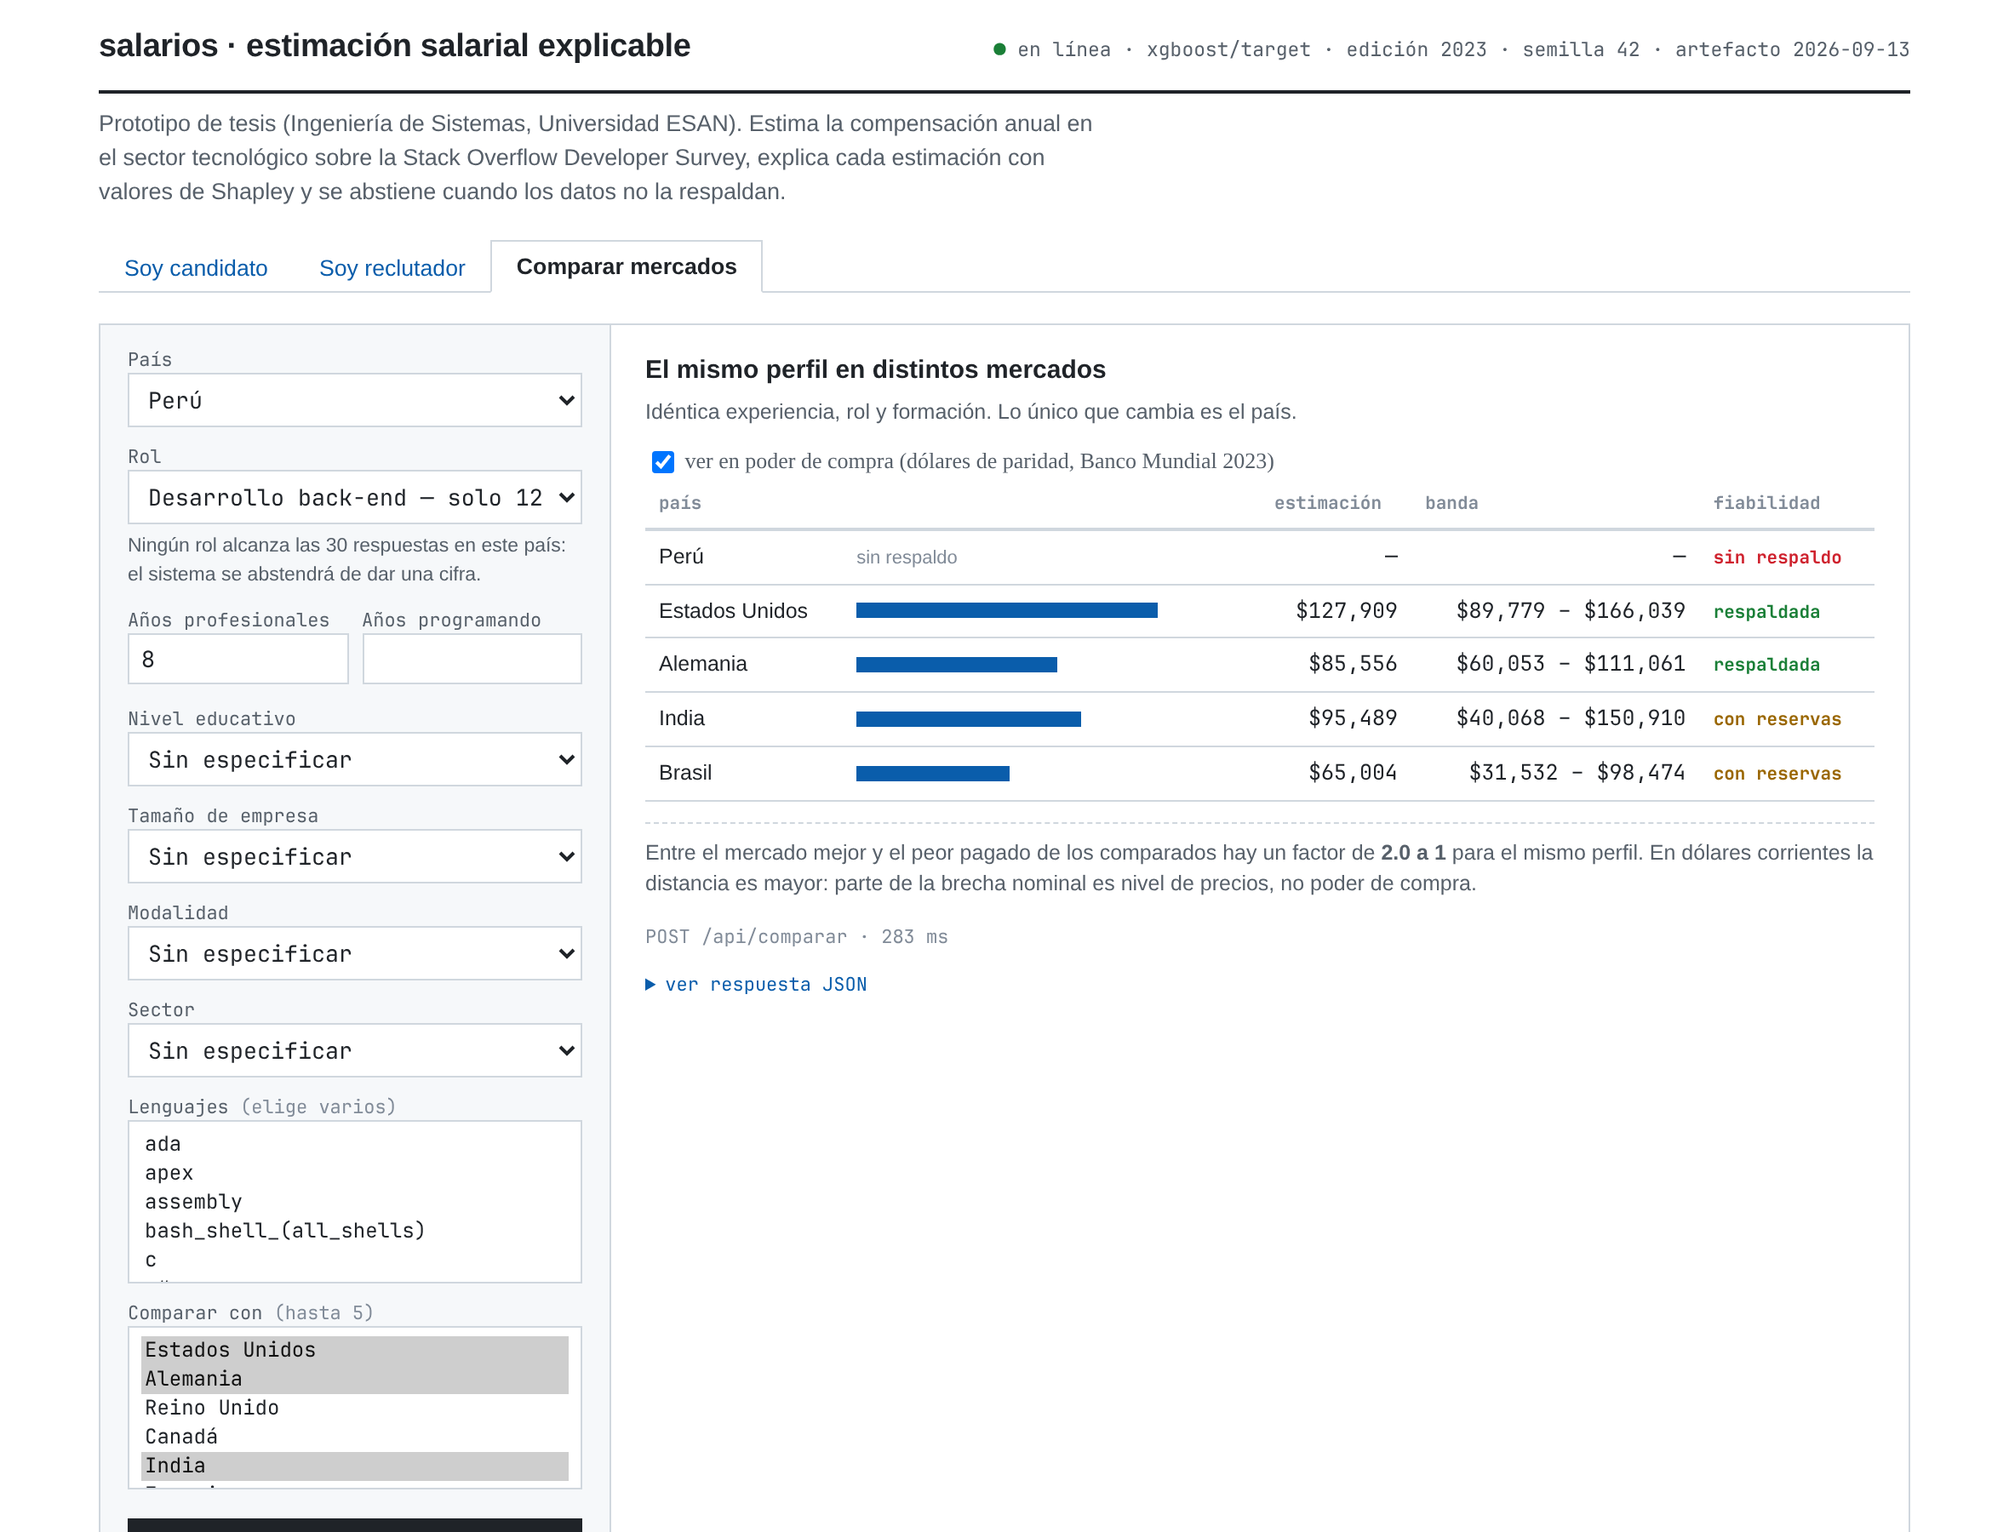
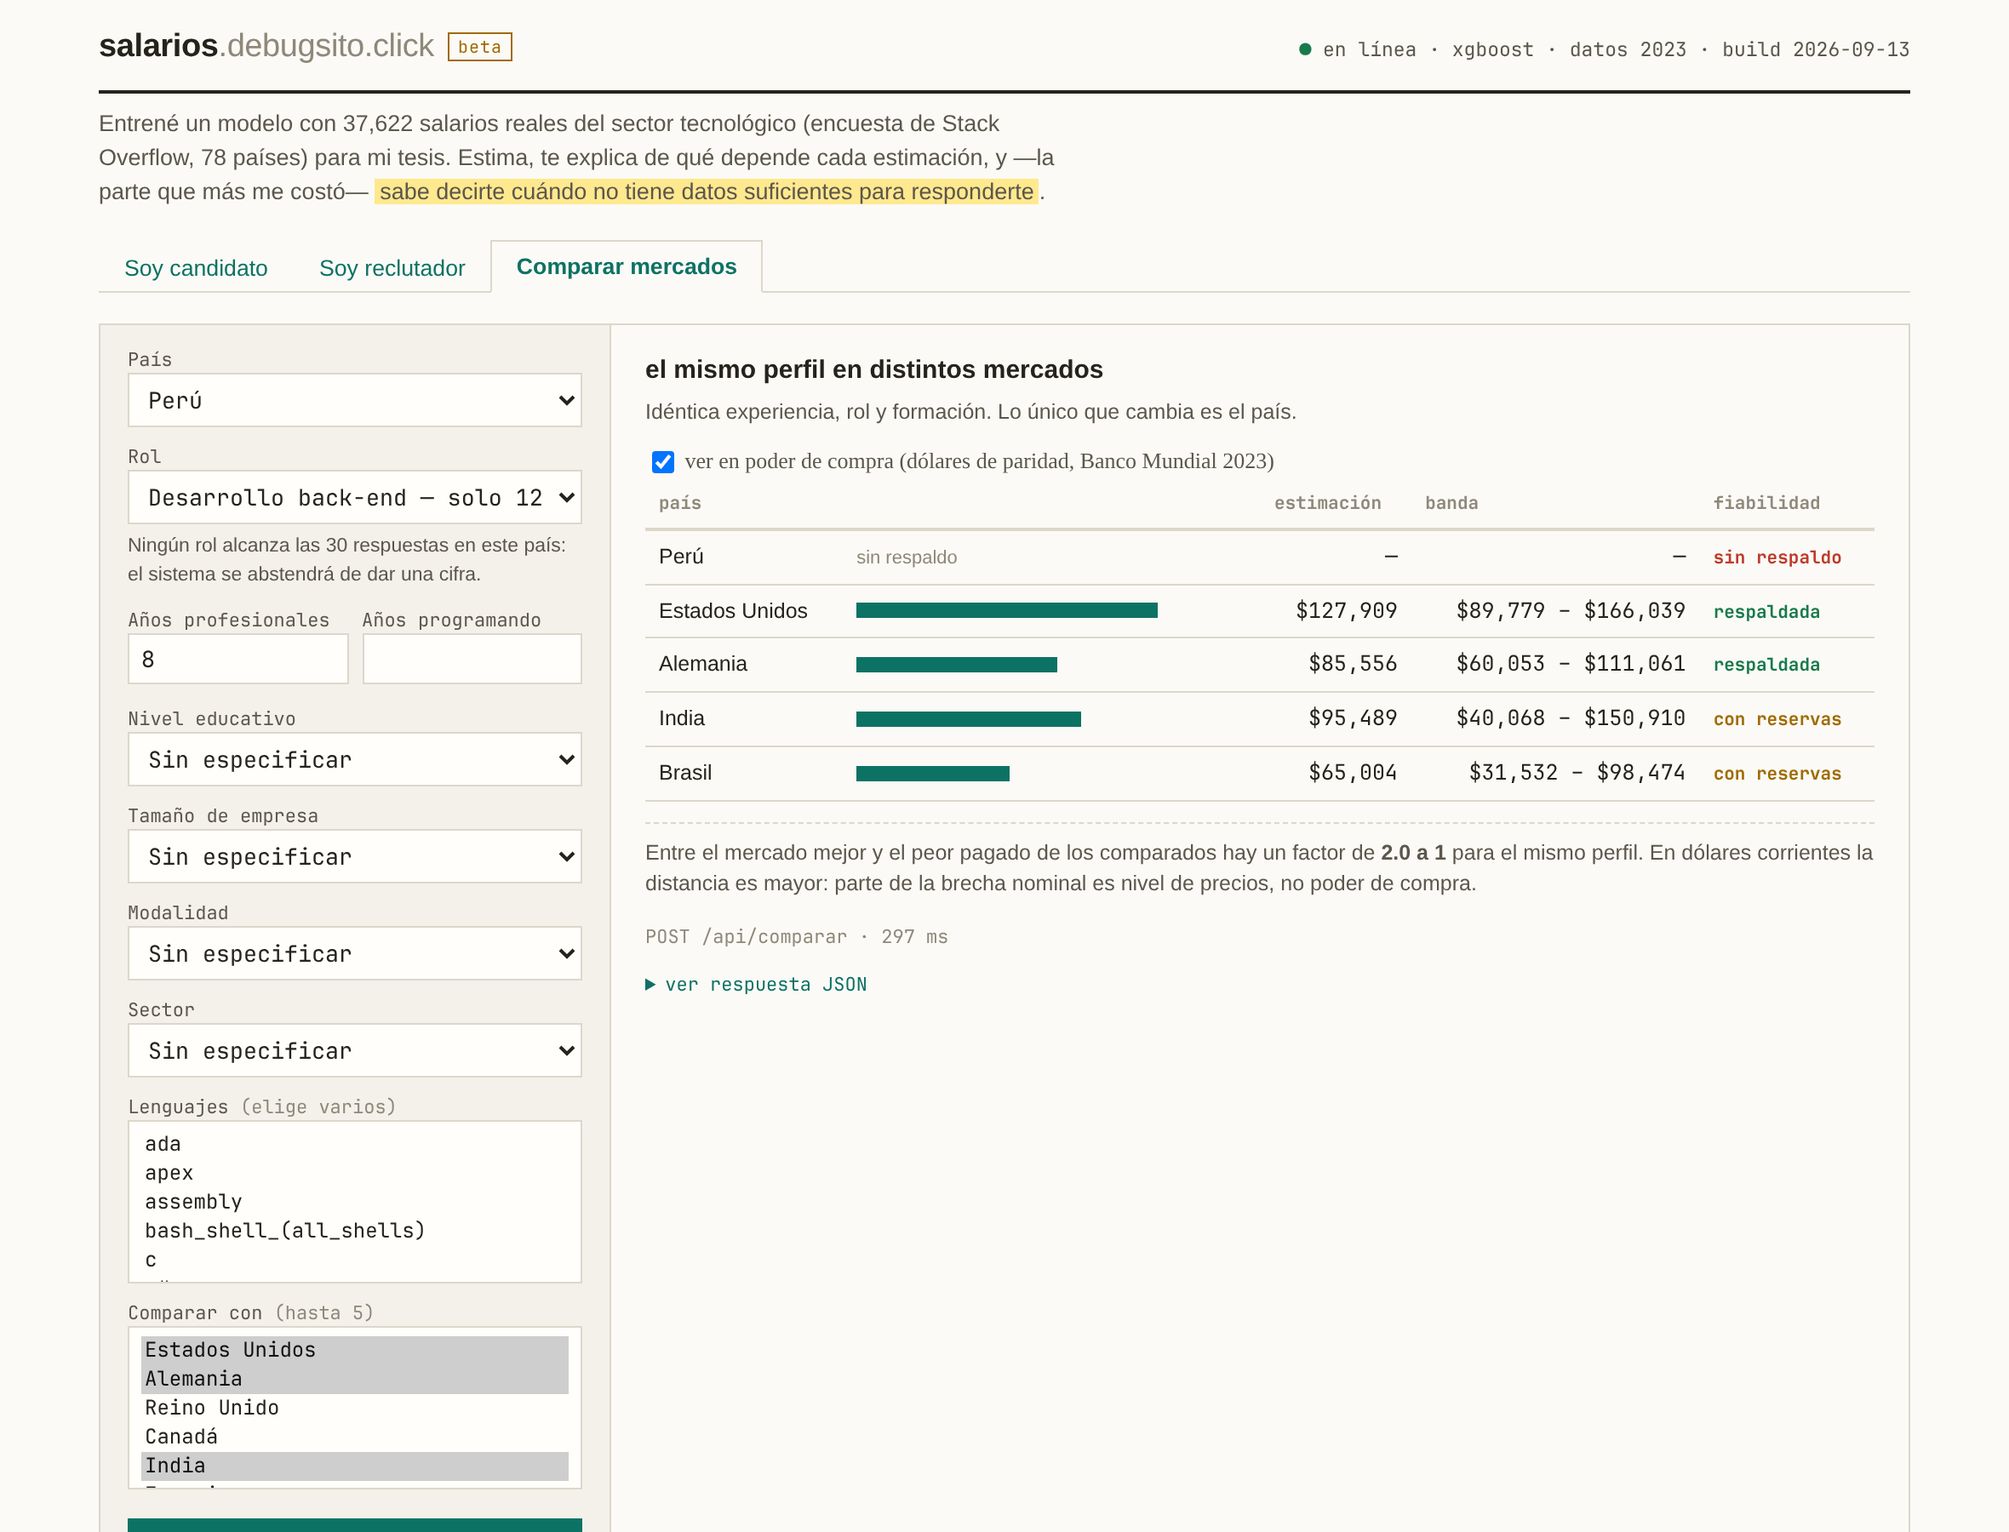
style: identidad propia y voz para el prototipo
Lo que delataba a la interfaz no era un estilo concreto sino la
uniformidad sin elecciones personales. Esta pasada le da las
elecciones: el dominio como nombre del proyecto con etiqueta beta,
introducción en primera persona con subrayado de resaltador sobre la
frase clave, un verde petróleo como único acento sobre fondo crema,
títulos de sección en minúscula, ejemplos con humor contenido y estados
vacíos con voz. Nada institucional en el tema: la universidad vive en
el pie y en el «acerca de».

La compuerta pasa a nombrar los países en español también en sus
motivos, y el guion de capturas del Anexo K queda versionado en
scripts/capturas_anexo_k.js en lugar de vivir en un directorio
temporal que ya lo borró dos veces.

24 pruebas, ejecutadas al construir la imagen.

diff --git a/servicio/static/index.html b/servicio/static/index.html
@@ -9,10 +9,15 @@
 /* Herramienta, no página de aterrizaje: densa, cuadrada, con monoespaciada
    para todo lo que sea dato. Un solo tema. */
 :root{
-  --tinta:#1f2328; --tinta2:#57606a; --tinta3:#818b98;
-  --borde:#d0d7de; --fondo:#ffffff; --gris:#f6f8fa;
-  --azul:#0a5dab; --verde:#1a7f37; --ambar:#9a6700; --rojo:#cf222e;
+  --tinta:#26221c; --tinta2:#5c564c; --tinta3:#8f887a;
+  --borde:#ddd7ca; --fondo:#fbfaf6; --gris:#f3f1ea;
+  --azul:#0c7264; --verde:#187a4b; --ambar:#a06b00; --rojo:#bf3a2b;
 }
+mark{background:#ffe98f;color:inherit;padding:0 3px}
+.beta{font:10px ui-monospace,Consolas,monospace;color:var(--ambar);
+  border:1px solid var(--ambar);padding:1px 5px;margin-left:8px;
+  vertical-align:middle;letter-spacing:.05em}
+h1 .dominio{color:var(--tinta3);font-weight:400}
 *{box-sizing:border-box}
 body{margin:0;background:var(--fondo);color:var(--tinta);
   font:14px/1.5 -apple-system,"Segoe UI",Roboto,"Helvetica Neue",Arial,sans-serif}
@@ -29,7 +34,7 @@ header p{margin:8px 0 0;color:var(--tinta2);font-size:13.5px;max-width:78ch}
 .pestanas button{background:none;border:1px solid transparent;border-bottom:0;
   color:var(--azul);cursor:pointer;font:13.5px inherit;font-family:inherit;
   padding:7px 14px;margin-bottom:-1px}
-.pestanas button[aria-selected=true]{color:var(--tinta);font-weight:600;
+.pestanas button[aria-selected=true]{color:var(--azul);font-weight:600;
   border-color:var(--borde);background:var(--fondo);
   border-radius:0;border-bottom:1px solid var(--fondo)}
 .rejilla{display:grid;grid-template-columns:300px 1fr;gap:0;align-items:start;
@@ -42,15 +47,15 @@ label{display:block;font:11px ui-monospace,Consolas,monospace;color:var(--tinta2
   margin:11px 0 3px}
 label:first-of-type{margin-top:0}
 select,input{width:100%;padding:5px 7px;border:1px solid var(--borde);border-radius:0;
-  background:#fff;color:var(--tinta);font:13px inherit;font-family:inherit}
+  background:#fffefb;color:var(--tinta);font:13px inherit;font-family:inherit}
 select[multiple]{height:96px;font-family:ui-monospace,Consolas,monospace;font-size:12px}
 select:focus,input:focus{outline:1px solid var(--azul);outline-offset:-1px}
 .dos{display:grid;grid-template-columns:1fr 1fr;gap:8px;align-items:end}
 .dos label{margin:11px 0 3px}
-button.principal{width:100%;margin-top:14px;padding:7px;background:var(--tinta);
-  color:#fff;border:1px solid var(--tinta);border-radius:0;font:13.5px inherit;
+button.principal{width:100%;margin-top:14px;padding:7px;background:var(--azul);
+  color:#fff;border:1px solid var(--azul);border-radius:0;font:13.5px inherit;
   font-family:inherit;font-weight:600;cursor:pointer}
-button.principal:hover{background:#000}
+button.principal:hover{background:#095e52}
 button.principal:disabled{opacity:.5;cursor:progress}
 .semaforo{border:1px solid var(--borde);border-left-width:4px;padding:9px 13px;
   margin-bottom:16px;background:var(--gris)}
@@ -110,12 +115,13 @@ dialog table{font-size:12.5px}
 
 <header>
   <div class="topbar">
-    <h1>salarios · estimación salarial explicable</h1>
+    <h1>salarios<span class="dominio">.debugsito.click</span><sup class="beta">beta</sup></h1>
     <span class="meta" id="estado-modelo"><span class="punto">●</span> cargando…</span>
   </div>
-  <p>Prototipo de tesis (Ingeniería de Sistemas, Universidad ESAN). Estima la compensación
-     anual en el sector tecnológico sobre la Stack Overflow Developer Survey, explica cada
-     estimación con valores de Shapley y se abstiene cuando los datos no la respaldan.</p>
+  <p>Entrené un modelo con 37,622 salarios reales del sector tecnológico (encuesta de
+     Stack Overflow, 78 países) para mi tesis. Estima, te explica de qué depende cada
+     estimación, y —la parte que más me costó— <mark>sabe decirte cuándo no tiene datos
+     suficientes para responderte</mark>.</p>
 </header>
 
 <div class="pestanas" role="tablist">
@@ -142,24 +148,29 @@ dialog table{font-size:12.5px}
     <label id="fila-comparar" hidden>Comparar con <span class="pildora">(hasta 5)</span>
       <select id="comparar_paises" multiple></select></label>
     <button class="principal" type="submit" id="enviar">Estimar</button>
-    <p class="ejemplos">Ejemplos:
-      <button type="button" data-ej="verde">con respaldo</button> ·
-      <button type="button" data-ej="ambar">con reservas</button> ·
-      <button type="button" data-ej="rojo">sin respaldo</button></p>
+    <p class="ejemplos">prueba rápida:
+      <button type="button" data-ej="verde">un caso con datos de sobra</button> ·
+      <button type="button" data-ej="ambar">uno justito</button> ·
+      <button type="button" data-ej="rojo">Perú</button>
+      <span class="pildora">(spoiler: con Perú se niega, y esa es la gracia)</span></p>
   </form>
 
   <main class="panel" id="resultado">
-    <div class="vacio">Completa el formulario y pulsa «Estimar».</div>
+    <div class="vacio">Elige país y rol (o prueba un ejemplo, abajo a la izquierda) y dale a Estimar.</div>
   </main>
 </div>
 
 <footer id="pie"></footer>
 
 <dialog id="acerca">
-  <h2 style="margin-top:0">Acerca de este sistema</h2>
-  <p class="sub" style="font-size:13px">Prototipo de la tesis <em>Estimación de compensaciones
-  en el sector tecnológico mediante aprendizaje automático explicable</em>, Universidad ESAN,
-  Facultad de Ingeniería, Carrera de Ingeniería de Sistemas.</p>
+  <h2 style="margin-top:0">acerca de</h2>
+  <p class="sub" style="font-size:13px">Las calculadoras de salario que existen te dan un número
+  y jamás te dicen qué tan confiable es. En la tesis medimos el error del modelo grupo por
+  grupo, y este prototipo hace lo que ninguna: usa esa medición para decidir si te responde.
+  Cuando se niega, no está fallando — está funcionando.</p>
+  <p class="sub" style="font-size:13px">Es el prototipo de la tesis <em>Estimación de compensaciones
+  en el sector tecnológico mediante aprendizaje automático explicable</em> (Universidad ESAN,
+  Ingeniería de Sistemas).</p>
   <p class="sub" style="font-size:13px"><strong>Autores:</strong> Carlos Sebastian Ramos Flores
   y Arian Antonio Garay Concha. <strong>Asesor:</strong> Wilfredo Mamani Ticona.</p>
   <div id="ficha-modelo" style="font-size:13px"></div>
@@ -200,8 +211,8 @@ async function arrancar() {
   opciones("#comparar_paises", c.Country);
   const m = CTX.modelo;
   $("#estado-modelo").innerHTML =
-    `<span class="punto">●</span> en línea · ${m.algoritmo.toLowerCase()}/target · `
-    + `edición ${m.edicion} · semilla ${m.semilla} · artefacto ${m.generado}`;
+    `<span class="punto">●</span> en línea · ${m.algoritmo.toLowerCase()} · `
+    + `datos ${m.edicion} · build ${m.generado}`;
   $("#pie").innerHTML =
     `C. Ramos Flores · A. Garay Concha — Universidad ESAN, 2026. `
     + `n=${m.n_muestra.toLocaleString("en-US")} (${m.n_paises} países) · `
@@ -278,7 +289,7 @@ function factores(lista) {
       <td style="width:46%"><span class="barra ${f.efecto < 0 ? "baja" : ""}"
           style="width:${Math.max(2, Math.abs(f.efecto) / max * 100)}%"></span></td>
       <td class="num">${f.efecto > 0 ? "+" : ""}${f.efecto.toFixed(3)}</td></tr>`).join("");
-  return `<h2>De qué depende esta estimación</h2>
+  return `<h2>de qué depende esta estimación</h2>
     <p class="sub">Cuánto separa cada bloque esta estimación de la media de la muestra.
        En positivo la empuja hacia arriba; en negativo, hacia abajo.
        <strong>Un valor cercano a cero no significa que el factor no importe</strong>,
@@ -293,7 +304,7 @@ function vistaCandidato(r) {
   if (!r.banda) return semaforo(r.fiabilidad) + sinCifra(r);
   const b = r.banda;
   return semaforo(r.fiabilidad) + `
-    <h2>Tu estimación</h2>
+    <h2>tu estimación</h2>
     <div class="cifra">${dinero(b.centro)}</div>
     <div class="rango">Entre ${dinero(b.inferior)} y ${dinero(b.superior)} al año,
       antes de impuestos.</div>
@@ -307,7 +318,7 @@ function vistaReclutador(r) {
   if (!r.banda) return semaforo(r.fiabilidad) + sinCifra(r);
   const b = r.banda;
   return semaforo(r.fiabilidad) + `
-    <h2>Banda sugerida para la oferta</h2>
+    <h2>banda sugerida para la oferta</h2>
     <div class="cifra">${dinero(b.inferior)} – ${dinero(b.superior)}</div>
     <div class="rango">Punto medio ${dinero(b.centro)}. Mediana del mercado local
       ${dinero(r.mediana_pais)}.</div>
@@ -318,7 +329,7 @@ function vistaReclutador(r) {
 }
 
 function sinCifra(r) {
-  return `<h2>No se entrega una cifra</h2>
+  return `<h2>no se entrega una cifra</h2>
     <p class="sub">Devolver un número aquí daría una apariencia de precisión que los
       datos no sostienen. La mediana declarada en el país, que sí procede de
       observaciones directas, es ${dinero(r.mediana_pais)}.</p>
@@ -365,7 +376,7 @@ function vistaComparar(datos) {
       <input type="checkbox" id="escala-ppa" ${ESCALA_PPA ? "checked" : ""}
              style="width:auto;vertical-align:middle"> ver en poder de compra
       (dólares de paridad, Banco Mundial 2023)</label></p>`;
-  return `<h2>El mismo perfil en distintos mercados</h2>
+  return `<h2>el mismo perfil en distintos mercados</h2>
     <p class="sub">Idéntica experiencia, rol y formación. Lo único que cambia es el país.</p>
     ${conmutador}
     <table><thead><tr><th>País</th><th></th><th class="num">Estimación</th>
@@ -392,8 +403,9 @@ $(".pestanas").addEventListener("click", e => {
   $("#fila-comparar").hidden = VISTA !== "comparar";
   $("#fila-lenguajes").hidden = VISTA === "comparar";
   $("#enviar").textContent = VISTA === "comparar" ? "Comparar" : "Estimar";
-  $("#resultado").innerHTML = `<div class="vacio">Completa el formulario y pulsa
-    «${VISTA === "comparar" ? "Comparar" : "Estimar"}».</div>`;
+  $("#resultado").innerHTML = `<div class="vacio">${VISTA === "comparar"
+    ? "Elige con qué países comparar y dale a Comparar."
+    : "Elige país y rol y dale a Estimar."}</div>`;
 });
 
 const EJEMPLOS = {

diff --git a/scripts/capturas_anexo_k.js b/scripts/capturas_anexo_k.js
@@ -1,0 +1,50 @@
+// Capturas del prototipo para el Anexo K del documento.
+//
+// Uso:  npm install puppeteer-core   (donde sea; pasar NODE_PATH)
+//       node scripts/capturas_anexo_k.js
+// Requiere Chromium en /usr/bin/chromium y el servicio desplegado.
+const puppeteer = require('puppeteer-core');
+const URL = 'https://salarios.debugsito.click';
+const SALIDA = __dirname + '/../figures/servicio';
+
+(async () => {
+  const b = await puppeteer.launch({executablePath: '/usr/bin/chromium',
+    args: ['--no-sandbox', '--disable-dev-shm-usage'],
+    defaultViewport: {width: 1180, height: 900, deviceScaleFactor: 2}});
+  const p = await b.newPage();
+  const casos = [
+    ['candidato', 'candidato', 'Germany', 'Developer, back-end', 8, [], false],
+    ['reclutador', 'reclutador', 'Brazil', 'Developer, full-stack', 6, [], false],
+    ['comparar', 'comparar', 'Peru', 'Developer, back-end', 8,
+      ['United States of America', 'Germany', 'Brazil', 'India'], false],
+    ['comparar_ppa', 'comparar', 'Peru', 'Developer, back-end', 8,
+      ['United States of America', 'Germany', 'Brazil', 'India'], true],
+  ];
+  for (const [nombre, vista, pais, rol, anios, comparar, ppa] of casos) {
+    await p.goto(URL, {waitUntil: 'networkidle0'});
+    await new Promise(r => setTimeout(r, 1500));
+    await p.evaluate(async (vista, pais, rol, anios, comparar) => {
+      document.querySelector(`[data-vista=${vista}]`).click();
+      document.querySelector('#pais').value = pais;
+      await cargarRoles();
+      document.querySelector('#rol').value = rol;
+      document.querySelector('#anios_profesionales').value = anios;
+      if (comparar.length) {
+        const s = document.querySelector('#comparar_paises');
+        for (const c of comparar) {
+          const o = [...s.options].find(x => x.value === c);
+          if (o) o.selected = true;
+        }
+      }
+      document.querySelector('#enviar').click();
+    }, vista, pais, rol, anios, comparar);
+    await new Promise(r => setTimeout(r, 4000));
+    if (ppa) {
+      await p.evaluate(() => document.querySelector('#escala-ppa').click());
+      await new Promise(r => setTimeout(r, 800));
+    }
+    await p.screenshot({path: `${SALIDA}/${nombre}.png`});
+    console.log(nombre, 'capturada');
+  }
+  await b.close();
+})();

diff --git a/servicio/fiabilidad.py b/servicio/fiabilidad.py
@@ -43,6 +43,11 @@ def evaluar(pais: str, rol: str | None, contexto: dict) -> dict:
     ref = contexto["referencia"]
     minimo = fia["n_minimo_celda"]
 
+    # Los motivos se muestran al usuario: el país va con su etiqueta en
+    # español, no con el valor crudo de la encuesta.
+    nombre = next((c["etiqueta"] for c in contexto.get("catalogos", {})
+                   .get("Country", []) if c["valor"] == pais), pais)
+
     n_pais = fia["n_pais"].get(pais, 0)
     n_celda = fia["n_pais_rol"].get(f"{pais}||{rol}", 0) if rol else 0
     grupo = ref["income_group"].get(pais)
@@ -58,7 +63,7 @@ def evaluar(pais: str, rol: str | None, contexto: dict) -> dict:
             "n_pais": 0, "n_celda": 0, "grupo": grupo,
             "error_relativo": error, "umbral_zeta": round(zeta, 4),
             "dispersion_intra_pais": None,
-            "motivos": [f"{pais} no figura en la muestra: la encuesta no reunió "
+            "motivos": [f"{nombre} no figura en la muestra: la encuesta no reunió "
                         f"las {minimo} respuestas mínimas que exige el estudio."],
             "resumen": "Sin datos para este país.",
         }
@@ -69,16 +74,16 @@ def evaluar(pais: str, rol: str | None, contexto: dict) -> dict:
         respalda_rol = n_pais >= minimo
         motivos.append(
             f"No se ha indicado el rol, de modo que la estimación se apoya en las "
-            f"{n_pais} respuestas de {pais} sin distinguir la función desempeñada.")
+            f"{n_pais} respuestas de {nombre} sin distinguir la función desempeñada.")
     else:
         respalda_rol = n_celda >= minimo
         if not respalda_rol:
             motivos.append(
-                f"Solo {n_celda} de las {n_pais} respuestas de {pais} corresponden a "
+                f"Solo {n_celda} de las {n_pais} respuestas de {nombre} corresponden a "
                 f"este rol, por debajo del mínimo de {minimo}. La estimación se apoya "
                 f"en el país, no en el rol."
                 if n_celda else
-                f"Ninguna de las {n_pais} respuestas de {pais} corresponde a este rol.")
+                f"Ninguna de las {n_pais} respuestas de {nombre} corresponde a este rol.")
 
     cumple_perdida = error is not None and error <= zeta
     if not cumple_perdida and error is not None:
